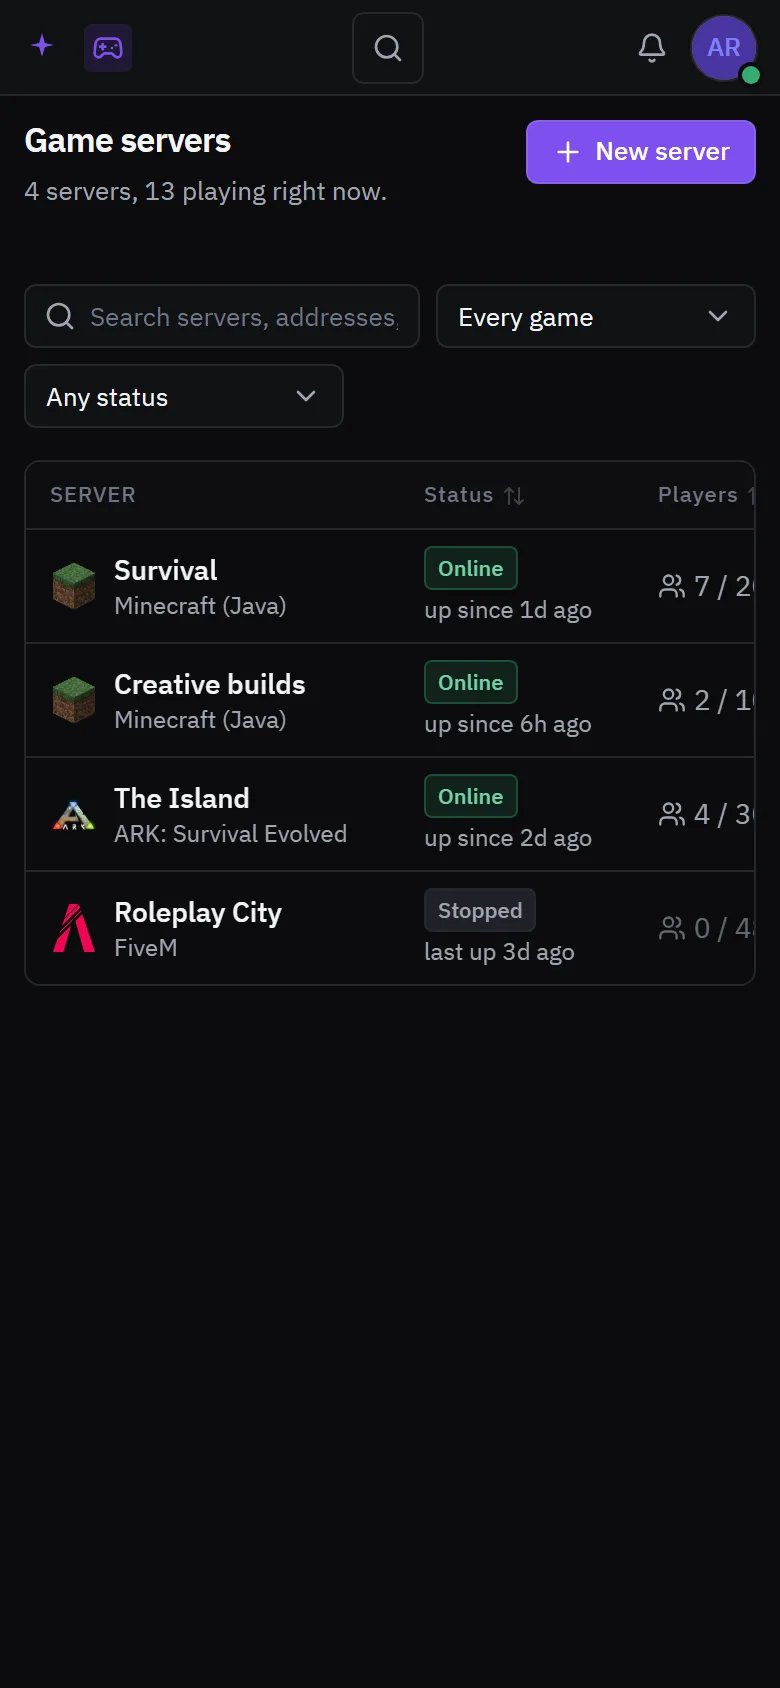
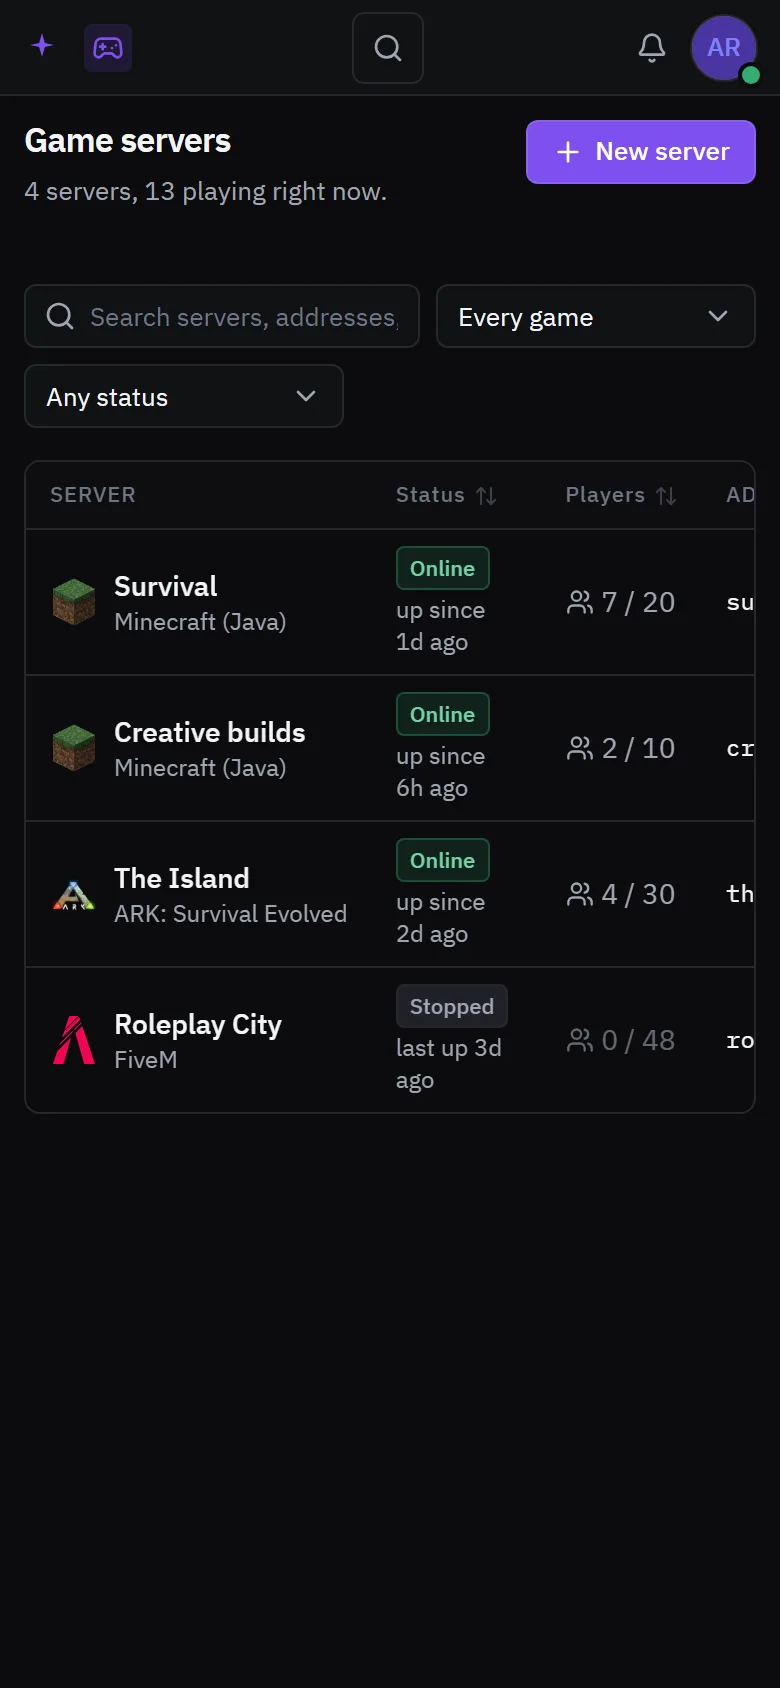
🐛 fix(chat): size call tiles to the panel and keep rail unread counts whole (#505)
* 🐛 fix(chat): call faces are wide tiles with the last row centred, and the rail's unread counts are whole

A call grid sized each tile from a fixed column count, so five people in a tall
voice channel were five portrait strips. Tiles now take the 16:9 shape of the
video they carry, as large as the panel allows, with a short last row centred,
in a meeting, a voice channel and a direct call alike. The face in an empty tile
follows the tile, so on a phone it no longer covers the name.

The space rail's scroll box was as narrow as its pills and clipped the unread
count hanging past each one's corner.

The README pictures use the addresses Polaris really gives game servers:
<name>.mc / .ark / .gta under the domain.

* 🐛 enigma(review): Drop offer card min-height in the fitted call grid

---------

diff --git a/dashboard/apps/web/src/app/(app)/chat/call-room.tsx b/dashboard/apps/web/src/app/(app)/chat/call-room.tsx
@@ -56,6 +56,7 @@ import { QuietMicNotice } from "./quiet-mic-notice";
 import { SlowConnectionNotice } from "@/components/connection-banner";
 import { playCallSound } from "@/lib/call-sounds";
 import { useEffect, useRef, useState } from "react";
+import { FACE_MAX, useFaceSize, useTileFit } from "./call-grid";
 import type { FilteredMic, MicFilter } from "./mic-filter";
 import {
     REACTIONS,
@@ -514,6 +515,14 @@ export function CallRoom({
     /** Offered shares sit among the people, first, rather than in a row above
      *  them. Only where the people are drawn in the main area. */
     const offersInline = place === "direct" && peopleShown;
+    /** Every tile in the people grid: your own, everybody else's, and the
+     *  shares offered among them. */
+    const tileCount =
+        1 +
+        (admitted ?? []).filter((person) => person.id !== call.participantId).length +
+        (offersInline ? putAway.length : 0);
+    /** Gap between tiles, in pixels: `gap-2`. */
+    const tiles = useTileFit<HTMLDivElement>(tileCount, 8);
     /** In the band, a stream being watched is all there is: pressing it again
      *  lets go of it and brings the people back, rather than enlarging a picture
      *  that already has the whole band. */
@@ -1036,6 +1045,15 @@ export function CallRoom({
 
             {peopleShown && !bareFaces && (
                 <div
+                    ref={staged ? undefined : tiles.ref}
+                    style={
+                        !staged && tiles.fit.width > 0
+                            ? ({
+                                  "--tile-w": `${tiles.fit.width}px`,
+                                  "--tile-h": `${tiles.fit.height}px`
+                              } as React.CSSProperties)
+                            : undefined
+                    }
                     className={cn(
                         // Room inside the edges for the speaking ring, which is
                         // drawn outside a tile (ring-2): the strip scrolls
@@ -1055,10 +1073,22 @@ export function CallRoom({
                         // cannot be scrolled to.
                         staged
                             ? "h-[6.25rem] w-max max-w-full shrink-0 self-center auto-cols-[9rem] grid-flow-col overflow-x-auto"
-                            : cn("flex-1", columns)
+                            : tiles.fit.width > 0
+                              ? // Wide tiles, as big as the panel allows, with a
+                                // short last row centred under the others - the
+                                // shape every voice channel has. Until the panel
+                                // has been measured, the even grid stands in.
+                                "flex flex-1 flex-wrap content-center justify-center [&>*]:h-[var(--tile-h)] [&>*]:w-[var(--tile-w)] [&>*]:flex-none"
+                              : cn("flex-1", columns)
                     )}
                 >
-                    {offersInline && putAway.map((stage) => offer(stage, "size-full min-h-24"))}
+                    {offersInline &&
+                        putAway.map((stage) =>
+                            offer(
+                                stage,
+                                cn("size-full", (staged || tiles.fit.width === 0) && "min-h-24")
+                            )
+                        )}
                     <Tile
                         stream={call.localStream}
                         name={ownName}
@@ -1852,10 +1882,6 @@ function clock(seconds: number): string {
     return `${Math.floor(seconds / 60)}:${String(seconds % 60).padStart(2, "0")}`;
 }
 
-/** How big the face in an empty tile is. One size for every tile: a grid where
- *  the faces are different sizes reads as a mistake. */
-const AVATAR_SIZE = 72;
-
 /** What a stream's menu needs, less the thing it wraps. */
 type StreamMenuFor = Omit<React.ComponentProps<typeof StreamMenu>, "children">;
 
@@ -1977,7 +2003,7 @@ function Face({
         <li className="flex w-20 shrink-0 flex-col items-center gap-1">
             <span className="relative">
                 <Avatar
-                    size={AVATAR_SIZE}
+                    size={FACE_MAX}
                     person={{ id: personId, name }}
                     callBadge={deafened ? "deafened" : muted ? "muted" : null}
                     className={cn(
@@ -2170,6 +2196,9 @@ function Tile({
     const t = useTranslations("chat");
     const video = useRef<HTMLVideoElement>(null);
     const frame = useRef<HTMLDivElement | null>(null);
+    /** The face in an empty tile, sized to the tile: a fixed one spilled over
+     *  the name of every tile in a phone's grid. */
+    const face = useFaceSize(frame);
     /** Pushing into the picture. Held for every tile and used by the ones that
      *  say so - a face in a grid of eight is not a thing anybody zooms. */
     const look = useZoomPan();
@@ -2362,7 +2391,7 @@ function Tile({
                 // grid of eight far faster than eight names are.
                 <span className="absolute inset-0 flex items-center justify-center">
                     <Avatar
-                        size={AVATAR_SIZE}
+                        size={face}
                         person={{ id: personId ?? null, name }}
                         callBadge={deafened ? "deafened" : muted ? "muted" : null}
                         className={cn(

diff --git a/dashboard/apps/web/src/app/(app)/chat/call-grid.ts b/dashboard/apps/web/src/app/(app)/chat/call-grid.ts
@@ -1,0 +1,102 @@
+"use client";
+
+/**
+ * How big each face in a call is, so the grid looks like every voice channel
+ * people already know: wide 16:9 tiles, as large as the panel allows, and a short
+ * last row centred under the others rather than left hanging on the left.
+ *
+ * Measured rather than a column lookup: a fixed number of columns stretches each
+ * tile to whatever height the panel happens to have, which turned five faces in a
+ * tall panel into five portrait strips. The panel is only measured when it
+ * changes size, never per frame.
+ */
+
+import { useEffect, useState } from "react";
+
+/** A video frame's shape. Cameras and screens both send 16:9. */
+export const TILE_RATIO = 16 / 9;
+
+export interface TileFit {
+    readonly columns: number;
+    readonly width: number;
+    readonly height: number;
+}
+
+/**
+ * The column count that gives `count` tiles of `ratio` the largest size inside a
+ * `width` x `height` box with `gap` between them. Every count is tried: with a
+ * room of a few dozen at most it is a handful of divisions.
+ */
+export function fitTiles(
+    count: number,
+    width: number,
+    height: number,
+    gap: number,
+    ratio = TILE_RATIO
+): TileFit {
+    let best: TileFit = { columns: 1, width: 0, height: 0 };
+    if (count < 1 || width <= 0 || height <= 0) return best;
+    for (let columns = 1; columns <= count; columns++) {
+        const rows = Math.ceil(count / columns);
+        const across = (width - gap * (columns - 1)) / columns;
+        const down = (height - gap * (rows - 1)) / rows;
+        const tileWidth = Math.floor(Math.min(across, down * ratio));
+        if (tileWidth > best.width)
+            best = { columns, width: tileWidth, height: Math.floor(tileWidth / ratio) };
+    }
+    return best;
+}
+
+/** The size each of `count` tiles should take in the element the ref is on.
+ *  Zero until the element has been measured. A callback ref, because the grid
+ *  comes and goes with the call's layout and has to be measured again each time
+ *  it is mounted. */
+export function useTileFit<T extends HTMLElement>(count: number, gap: number) {
+    const [node, ref] = useState<T | null>(null);
+    const [box, setBox] = useState({ width: 0, height: 0 });
+    useEffect(() => {
+        // Absent in old browsers and in tests: the even grid and the full-size
+        // face stand in, which is what a call looked like before.
+        if (!node || typeof ResizeObserver === "undefined") return;
+        const observer = new ResizeObserver(([entry]) => {
+            if (!entry) return;
+            const { width, height } = entry.contentRect;
+            setBox((was) =>
+                was.width === width && was.height === height ? was : { width, height }
+            );
+        });
+        observer.observe(node);
+        return () => observer.disconnect();
+    }, [node]);
+    return { ref, fit: fitTiles(count, box.width, box.height, gap) };
+}
+
+/** The largest a face in an empty tile is drawn. */
+export const FACE_MAX = 72;
+/** The smallest: below this the initials stop being readable. */
+const FACE_MIN = 28;
+
+/** How big the face in a tile `height` pixels tall is: under half the tile, so
+ *  the name in the corner never runs into it, and never past `FACE_MAX`. Equal
+ *  tiles get equal faces, so the grid still reads as one size. */
+export function faceSize(height: number): number {
+    if (height <= 0) return FACE_MAX;
+    return Math.max(FACE_MIN, Math.min(FACE_MAX, Math.floor(height * 0.42)));
+}
+
+/** The face size for the tile a ref is on, following the tile as it resizes. */
+export function useFaceSize(frame: { readonly current: HTMLElement | null }): number {
+    const [height, setHeight] = useState(0);
+    useEffect(() => {
+        const node = frame.current;
+        // Absent in old browsers and in tests: the even grid and the full-size
+        // face stand in, which is what a call looked like before.
+        if (!node || typeof ResizeObserver === "undefined") return;
+        const observer = new ResizeObserver(([entry]) => {
+            if (entry) setHeight(entry.contentRect.height);
+        });
+        observer.observe(node);
+        return () => observer.disconnect();
+    }, [frame]);
+    return faceSize(height);
+}

diff --git a/dashboard/scripts/readme-media/fixtures/games.ts b/dashboard/scripts/readme-media/fixtures/games.ts
@@ -54,7 +54,10 @@ export function gameServers(ctx: SceneContext): GameServerSeed[] {
 }
 
 interface Extra {
-    readonly address: string | null;
+    /** The address Polaris gives the server: its name under its game's own label
+     *  (`mc`, `ark`, `gta`), with the port only for a game whose client does not
+     *  look up an SRV record. English and Spanish, because the name is. */
+    readonly address: readonly [en: string, es: string];
     readonly slots: number;
     readonly release?: string;
     readonly software?: string;
@@ -66,7 +69,7 @@ interface Extra {
 
 const EXTRA: readonly Extra[] = [
     {
-        address: "play.example.com",
+        address: ["survival.mc.example.com", "supervivencia.mc.example.com"],
         slots: 20,
         release: "1.21.4",
         software: "Paper",
@@ -84,7 +87,7 @@ const EXTRA: readonly Extra[] = [
         upMinutes: 60 * 31
     },
     {
-        address: "build.example.com",
+        address: ["creative-builds.mc.example.com", "construcciones.mc.example.com"],
         slots: 10,
         release: "1.21.4",
         software: "Fabric",
@@ -94,13 +97,19 @@ const EXTRA: readonly Extra[] = [
         upMinutes: 60 * 6
     },
     {
-        address: "ark.example.com:7777",
+        address: ["the-island.ark.example.com:7777", "the-island.ark.example.com:7777"],
         slots: 30,
         online: 4,
         players: ["Rex Tamer", "Doedicurus", "Kenji", "Sam"],
         upMinutes: 60 * 50
     },
-    { address: "fivem.example.com:30120", slots: 48, online: 0, players: [], upMinutes: null }
+    {
+        address: ["roleplay-city.gta.example.com:30120", "roleplay-city.gta.example.com:30120"],
+        slots: 48,
+        online: 0,
+        players: [],
+        upMinutes: null
+    }
 ];
 
 export function gameFacts(ctx: SceneContext): GameServerFacts[] {
@@ -116,7 +125,7 @@ export function gameFacts(ctx: SceneContext): GameServerFacts[] {
             applicationId: seed.applicationId,
             serverName: "Local",
             running,
-            address: extra.address,
+            address: ctx.say(...extra.address),
             slots: extra.slots,
             release: extra.release ?? null,
             software: extra.software ?? null,

diff --git a/dashboard/apps/web/test/chat/call-grid.test.ts b/dashboard/apps/web/test/chat/call-grid.test.ts
@@ -1,0 +1,52 @@
+/**
+ * The size of each face in a call.
+ *
+ * The defect this pins down: five people in a tall voice channel were five
+ * portrait strips, because a fixed column count stretched every tile to the
+ * panel's height. Tiles keep the 16:9 shape of the video they show, and the
+ * column count is whichever makes them biggest.
+ */
+
+import { describe, expect, it } from "vitest";
+import { fitTiles, TILE_RATIO } from "@/app/(app)/chat/call-grid";
+
+describe("fitTiles", () => {
+    it("keeps every tile 16:9", () => {
+        for (const count of [1, 2, 3, 5, 8, 12]) {
+            const fit = fitTiles(count, 760, 960, 8);
+            expect(Math.abs(fit.width / fit.height - TILE_RATIO)).toBeLessThan(0.02);
+        }
+    });
+
+    it("puts five in two columns of wide tiles in a tall, narrow panel", () => {
+        // The panel of the reported screenshot: about 760 wide, 960 tall. Three
+        // across was the portrait strips; two across is the biggest 16:9 fit.
+        const fit = fitTiles(5, 760, 960, 8);
+        expect(fit.columns).toBe(2);
+        expect(fit.width).toBe(376);
+        expect(fit.height).toBe(211);
+    });
+
+    it("lays a wide panel out in columns", () => {
+        expect(fitTiles(4, 1600, 900, 8).columns).toBe(2);
+        expect(fitTiles(6, 1600, 700, 8).columns).toBe(3);
+    });
+
+    it("fits inside the panel", () => {
+        for (const [count, width, height] of [
+            [5, 760, 960],
+            [7, 1200, 500],
+            [2, 390, 300]
+        ] as const) {
+            const fit = fitTiles(count, width, height, 8);
+            const rows = Math.ceil(count / fit.columns);
+            expect(fit.columns * fit.width + (fit.columns - 1) * 8).toBeLessThanOrEqual(width);
+            expect(rows * fit.height + (rows - 1) * 8).toBeLessThanOrEqual(height);
+        }
+    });
+
+    it("is nothing until the panel has a size", () => {
+        expect(fitTiles(3, 0, 0, 8).width).toBe(0);
+        expect(fitTiles(0, 800, 600, 8).width).toBe(0);
+    });
+});

diff --git a/dashboard/apps/web/src/app/(app)/chat/server-rail.tsx b/dashboard/apps/web/src/app/(app)/chat/server-rail.tsx
@@ -191,7 +191,10 @@ export function ServerRail() {
 
             <span className="h-px w-6 shrink-0 bg-border" />
 
-            <div className="flex min-h-0 flex-1 flex-col items-center gap-1.5 overflow-y-auto overscroll-contain no-scrollbar">
+            {/* The whole width of the rail, and a little room above and below:
+                a scrolling box clips on both axes, and sized to its pills it
+                cut off the unread count that hangs past each one's corner. */}
+            <div className="flex min-h-0 w-full flex-1 flex-col items-center gap-1.5 overflow-y-auto overscroll-contain py-0.5 no-scrollbar">
                 {spaces.map((space) => (
                     <SpaceMenu
                         key={space.id}
